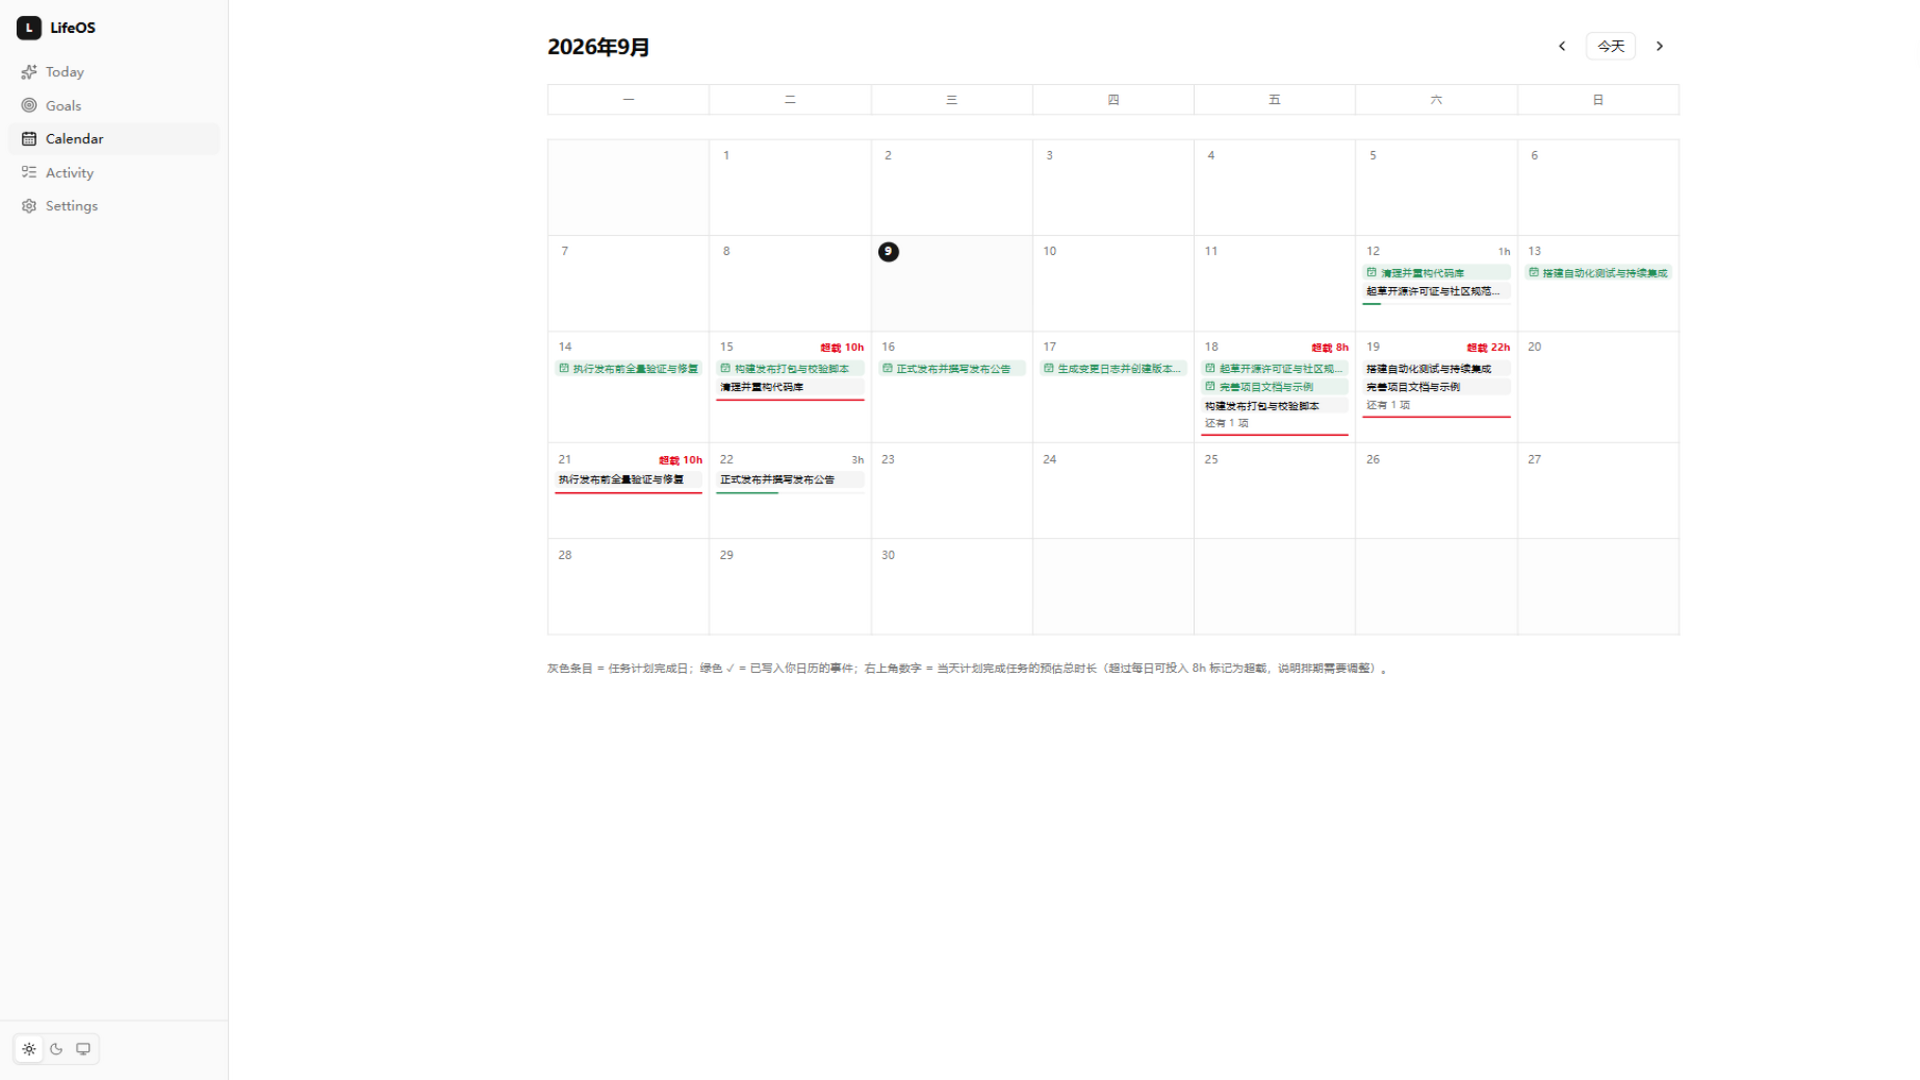
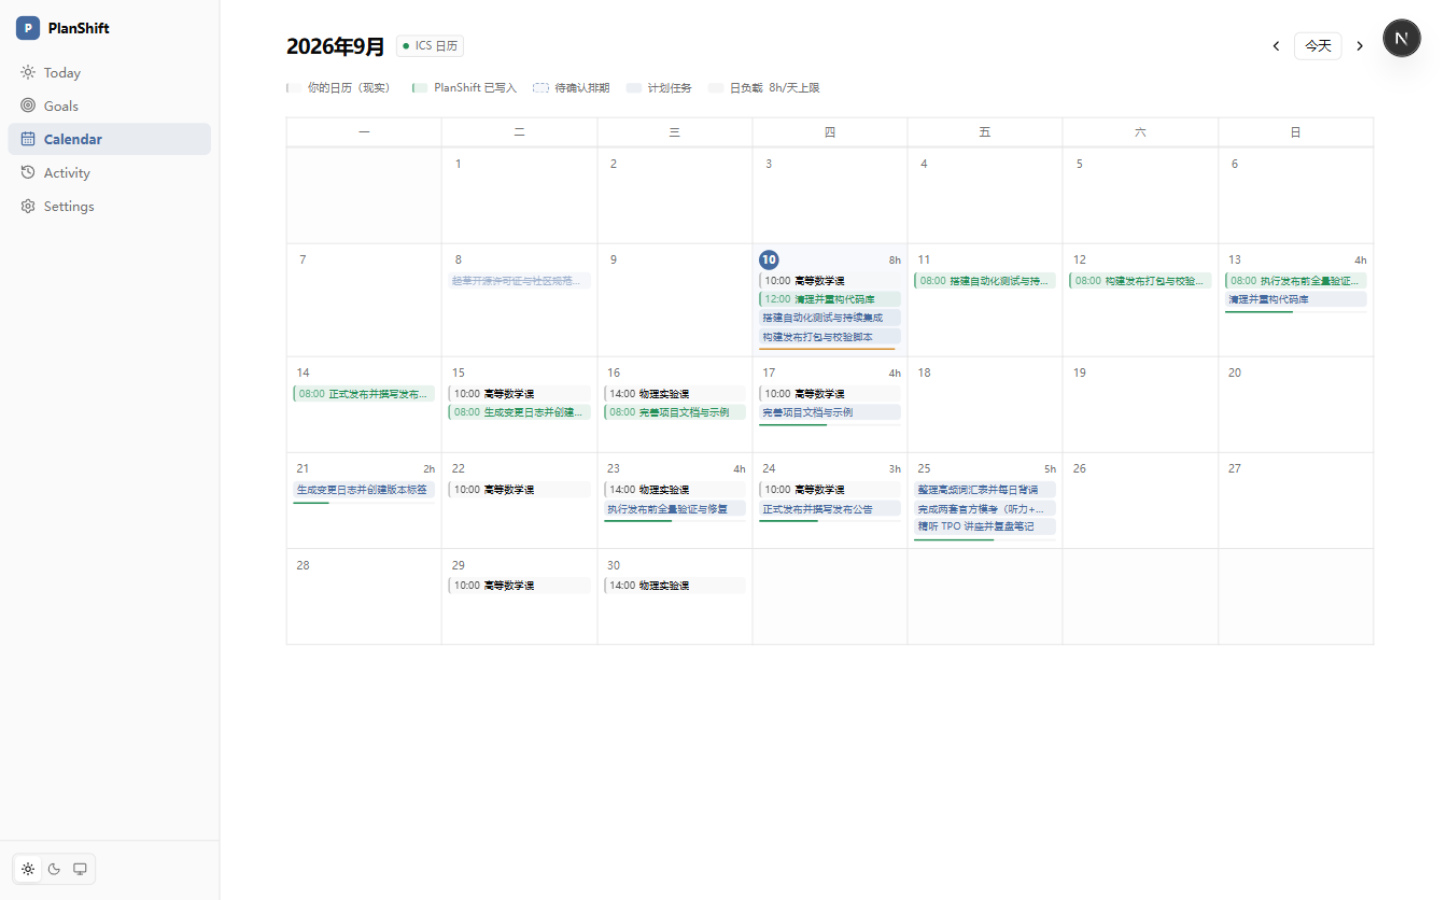
docs: README 截图替换为新 UI（today / goal-detail / replan-preview / calendar）

diff --git a/README.md b/README.md
@@ -24,9 +24,9 @@ Every step in the video is a real product run: real LLM planning, real Google Ca
 
 ## Screenshots
 
-| Today | Goal & Kanban |
+| Today | Goal Detail |
 |---|---|
-| ![Today](screenshots/today.png) | ![Kanban](screenshots/goal-kanban.png) |
+| ![Today](screenshots/today.png) | ![Goal Detail](screenshots/goal-detail.png) |
 | **Replan Preview** | **Calendar** |
 | ![Replan Preview](screenshots/replan-preview.png) | ![Calendar](screenshots/calendar.png) |
 

diff --git a/README.zh-CN.md b/README.zh-CN.md
@@ -24,9 +24,9 @@
 
 ## 截图
 
-| Today 今日 | Goal 目标与看板 |
+| Today 今日 | Goal 目标详情 |
 |---|---|
-| ![Today](screenshots/today.png) | ![Kanban](screenshots/goal-kanban.png) |
+| ![Today](screenshots/today.png) | ![Goal Detail](screenshots/goal-detail.png) |
 | **Replan 重新规划预览** | **Calendar 日历** |
 | ![Replan Preview](screenshots/replan-preview.png) | ![Calendar](screenshots/calendar.png) |
 
